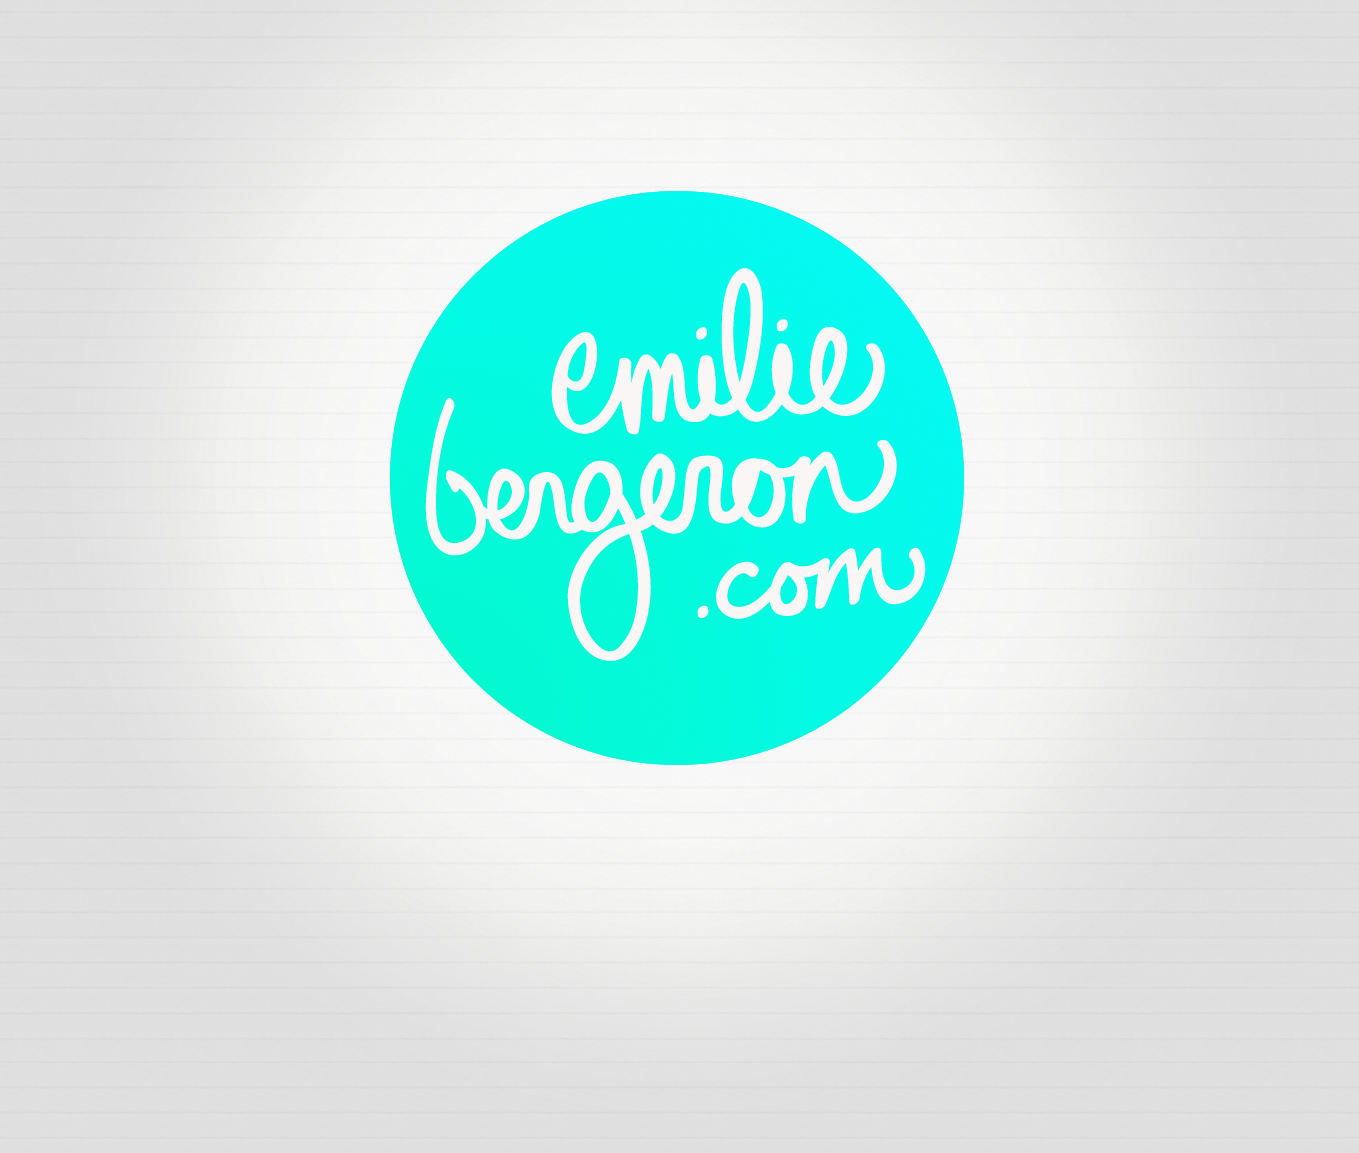
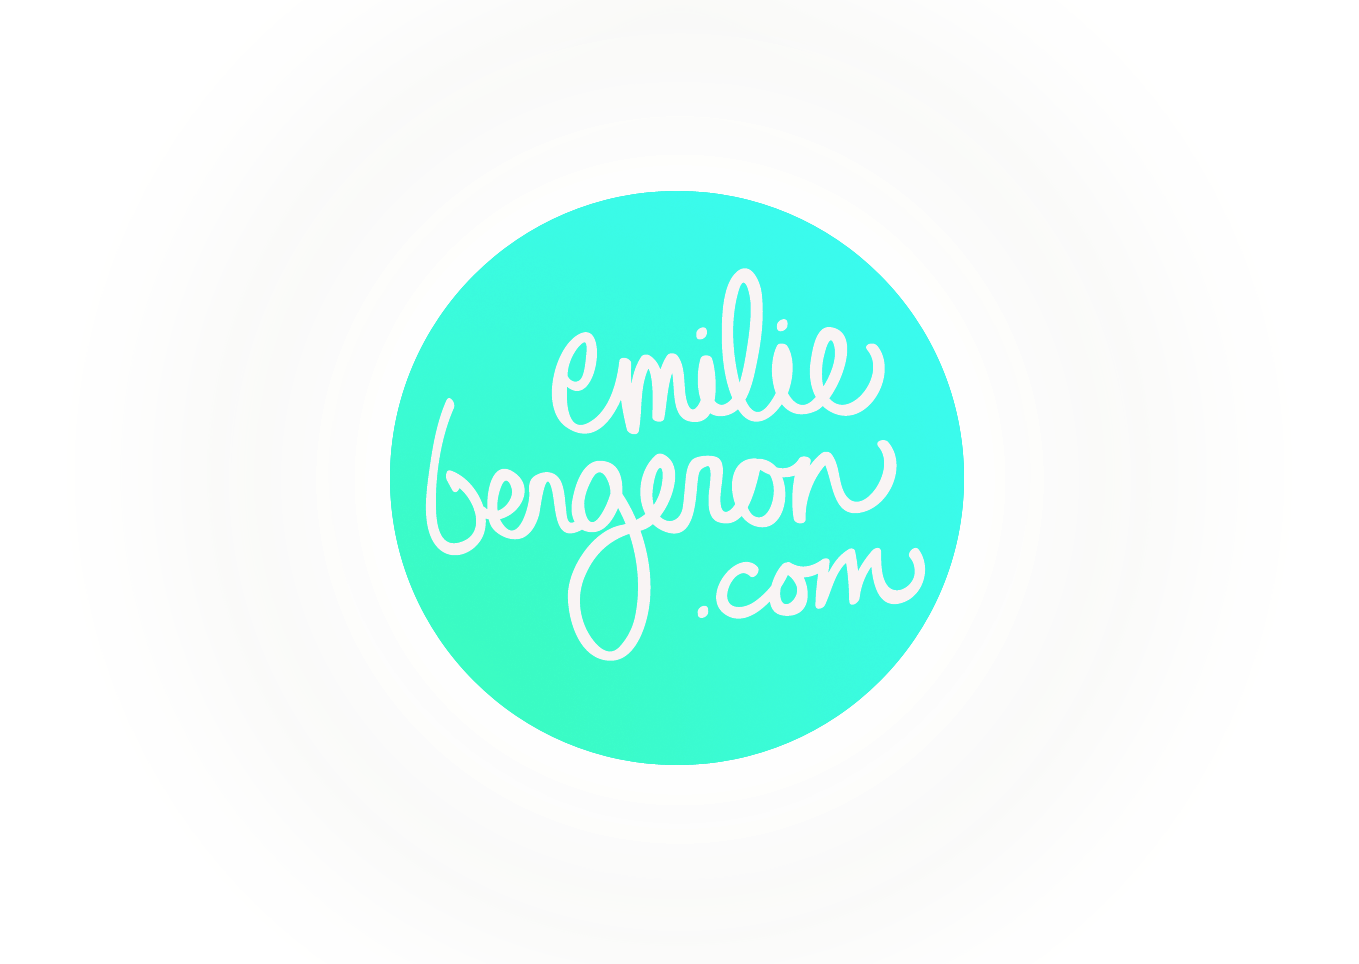
Working css3 resize based on window height

diff --git a/styles.css b/styles.css
@@ -19,19 +19,21 @@ ol, ul {
 
 /* eb.com styling */
 html {
-  min-height: 100%;
+  height: 100%;
   background: url('img/bg_line.gif');
 }
 
 body {
-  min-height: 100%;
+  height: 100%;
   background: url('img/emilie_bergeron.png') top center no-repeat;
-  padding: 114px 0;
+  background-size: auto 100%;
 }
 
 #content {
+  height: 100%;
   margin: 0 auto;
   width: 700px;
+  position: relative;
 }
 
 .sprite {
@@ -40,19 +42,20 @@ body {
 
 .coming-soon {
   background: url('img/bientot.png') no-repeat;
-  margin: 0 auto;
+  position: absolute;
+  top: 10%;
+  left: 50%;
+  margin-left: -112px;
   height: 23px;
   width: 223px;
-  margin-bottom:
-}
-
-h1 {
-  height: 714px;
 }
 
 .contact-links {
   overflow: hidden;
-  margin: 0 auto;
+  position:absolute;
+  bottom: 4%;
+  left: 50%;
+  margin-left: -112px;
   width: 224px;
 }
 
@@ -72,17 +75,10 @@ h1 {
   background: url('img/sprite.png') no-repeat;
 }
 
-.contact-links .behance  a { background-position: 0px 0px; }
-.contact-links .linkedin a { background-position: -85px 0px; }
-.contact-links .twitter  a { background-position: -175px 0px; }
+.behance  a { background-position: 0px 0px; }
+.linkedin a { background-position: -85px 0px; }
+.twitter  a { background-position: -175px 0px; }
 
-.contact-links .behance  a:hover { background-position: 0px -80px; }
-.contact-links .linkedin a:hover { background-position: -85px -80px; }
-.contact-links .twitter  a:hover { background-position: -175px -80px; }
-
-/*
- * background-clip -> cover
- * max-height
- *
- * position top/bottom : absolue.
- * */
+.behance  a:hover { background-position: 0px -80px; }
+.linkedin a:hover { background-position: -85px -80px; }
+.twitter  a:hover { background-position: -175px -80px; }
